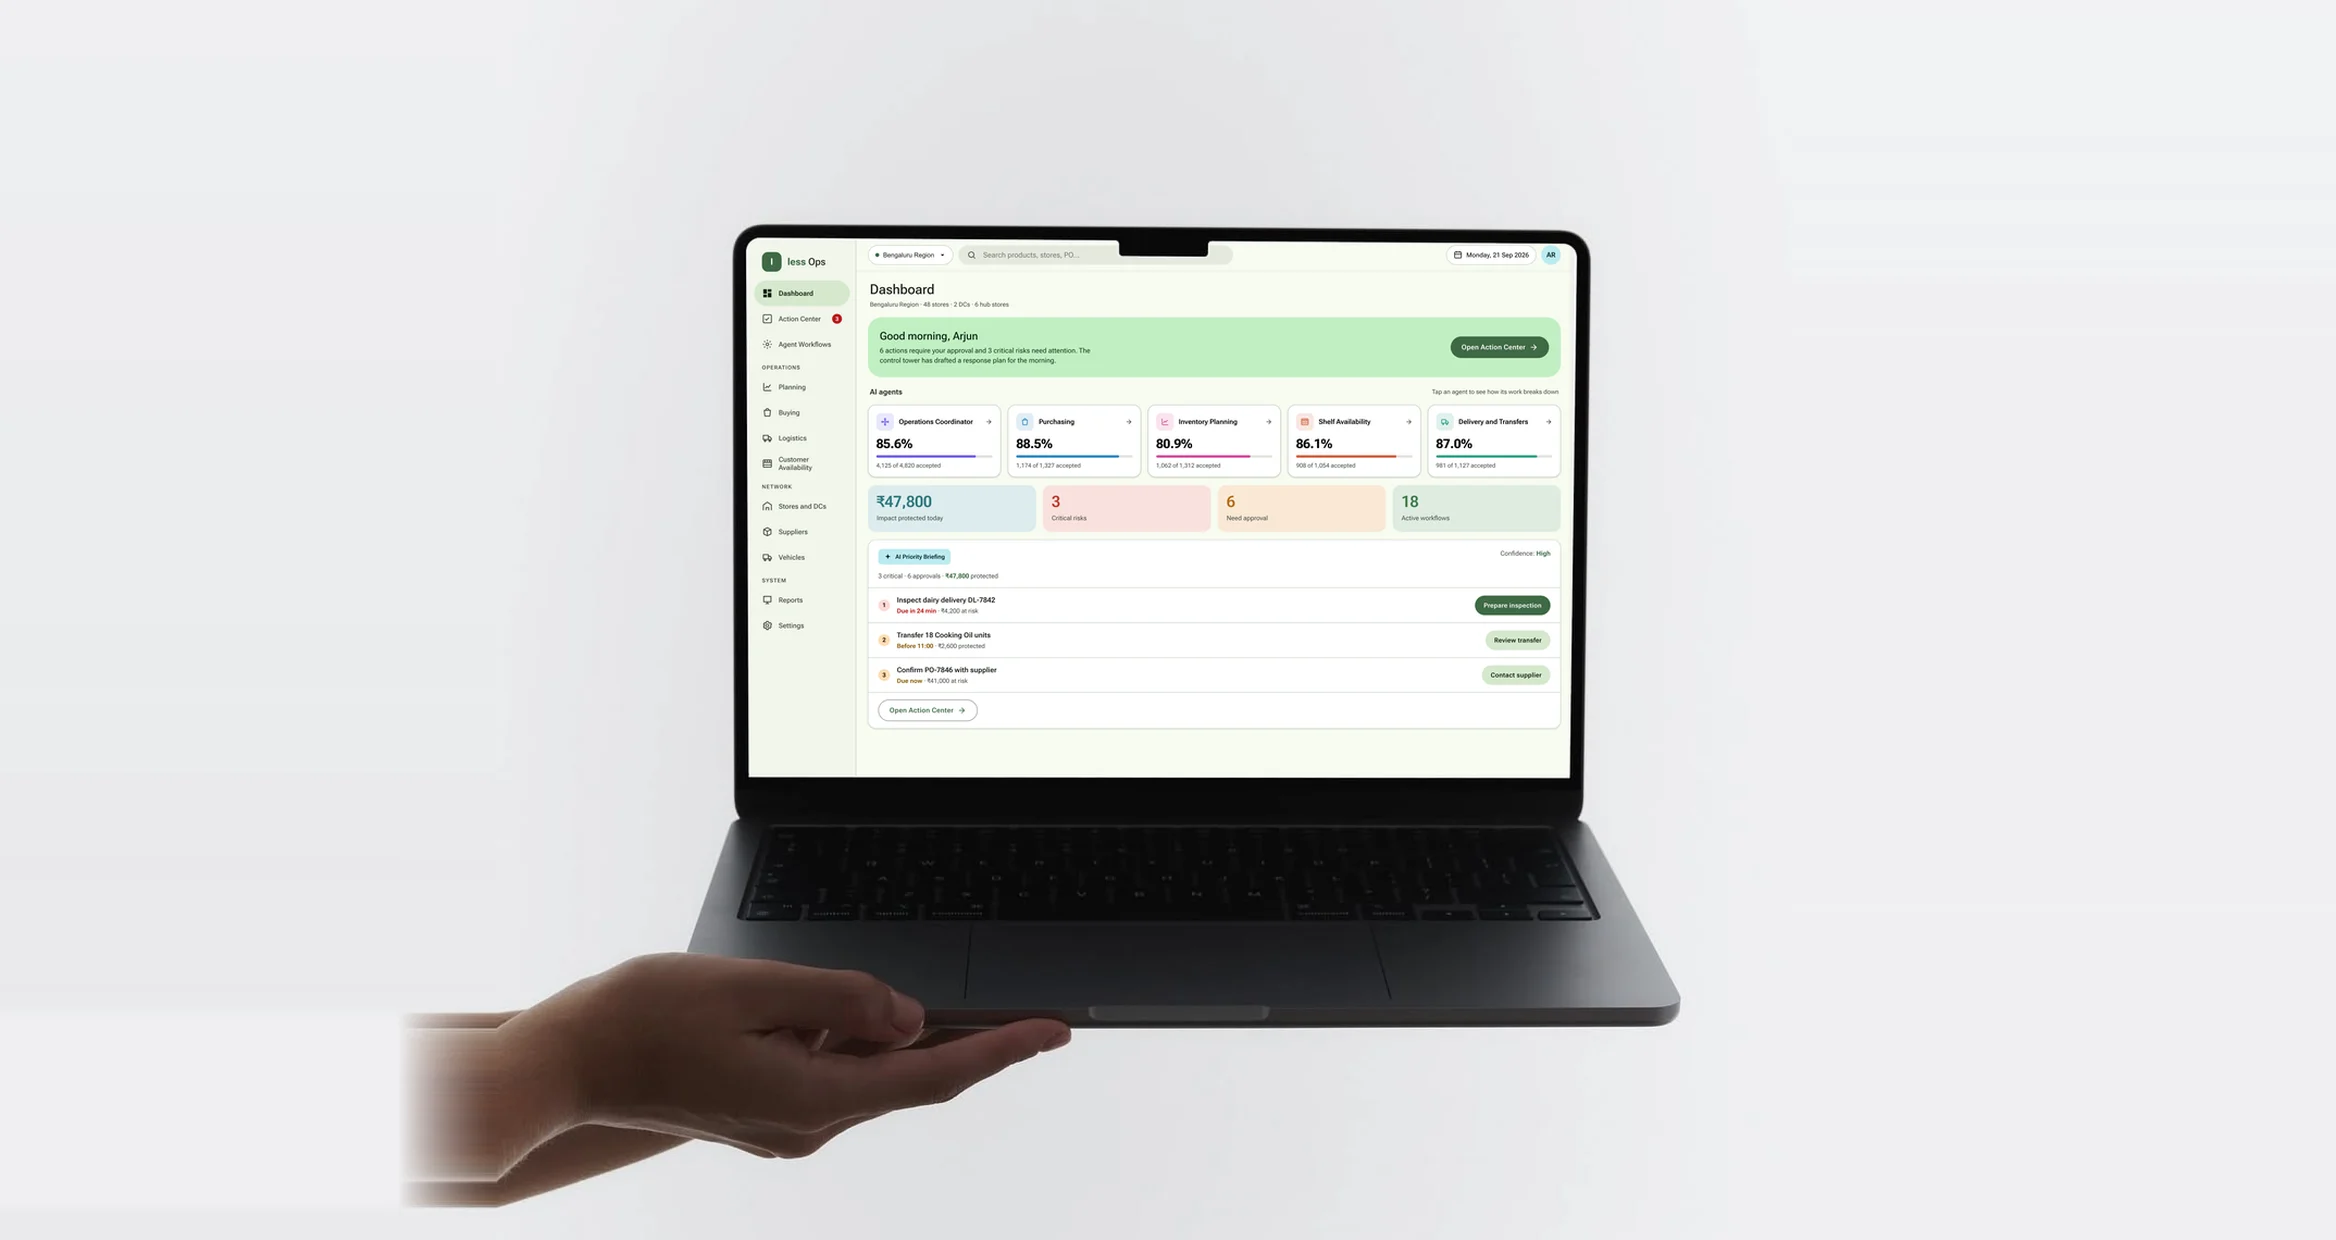
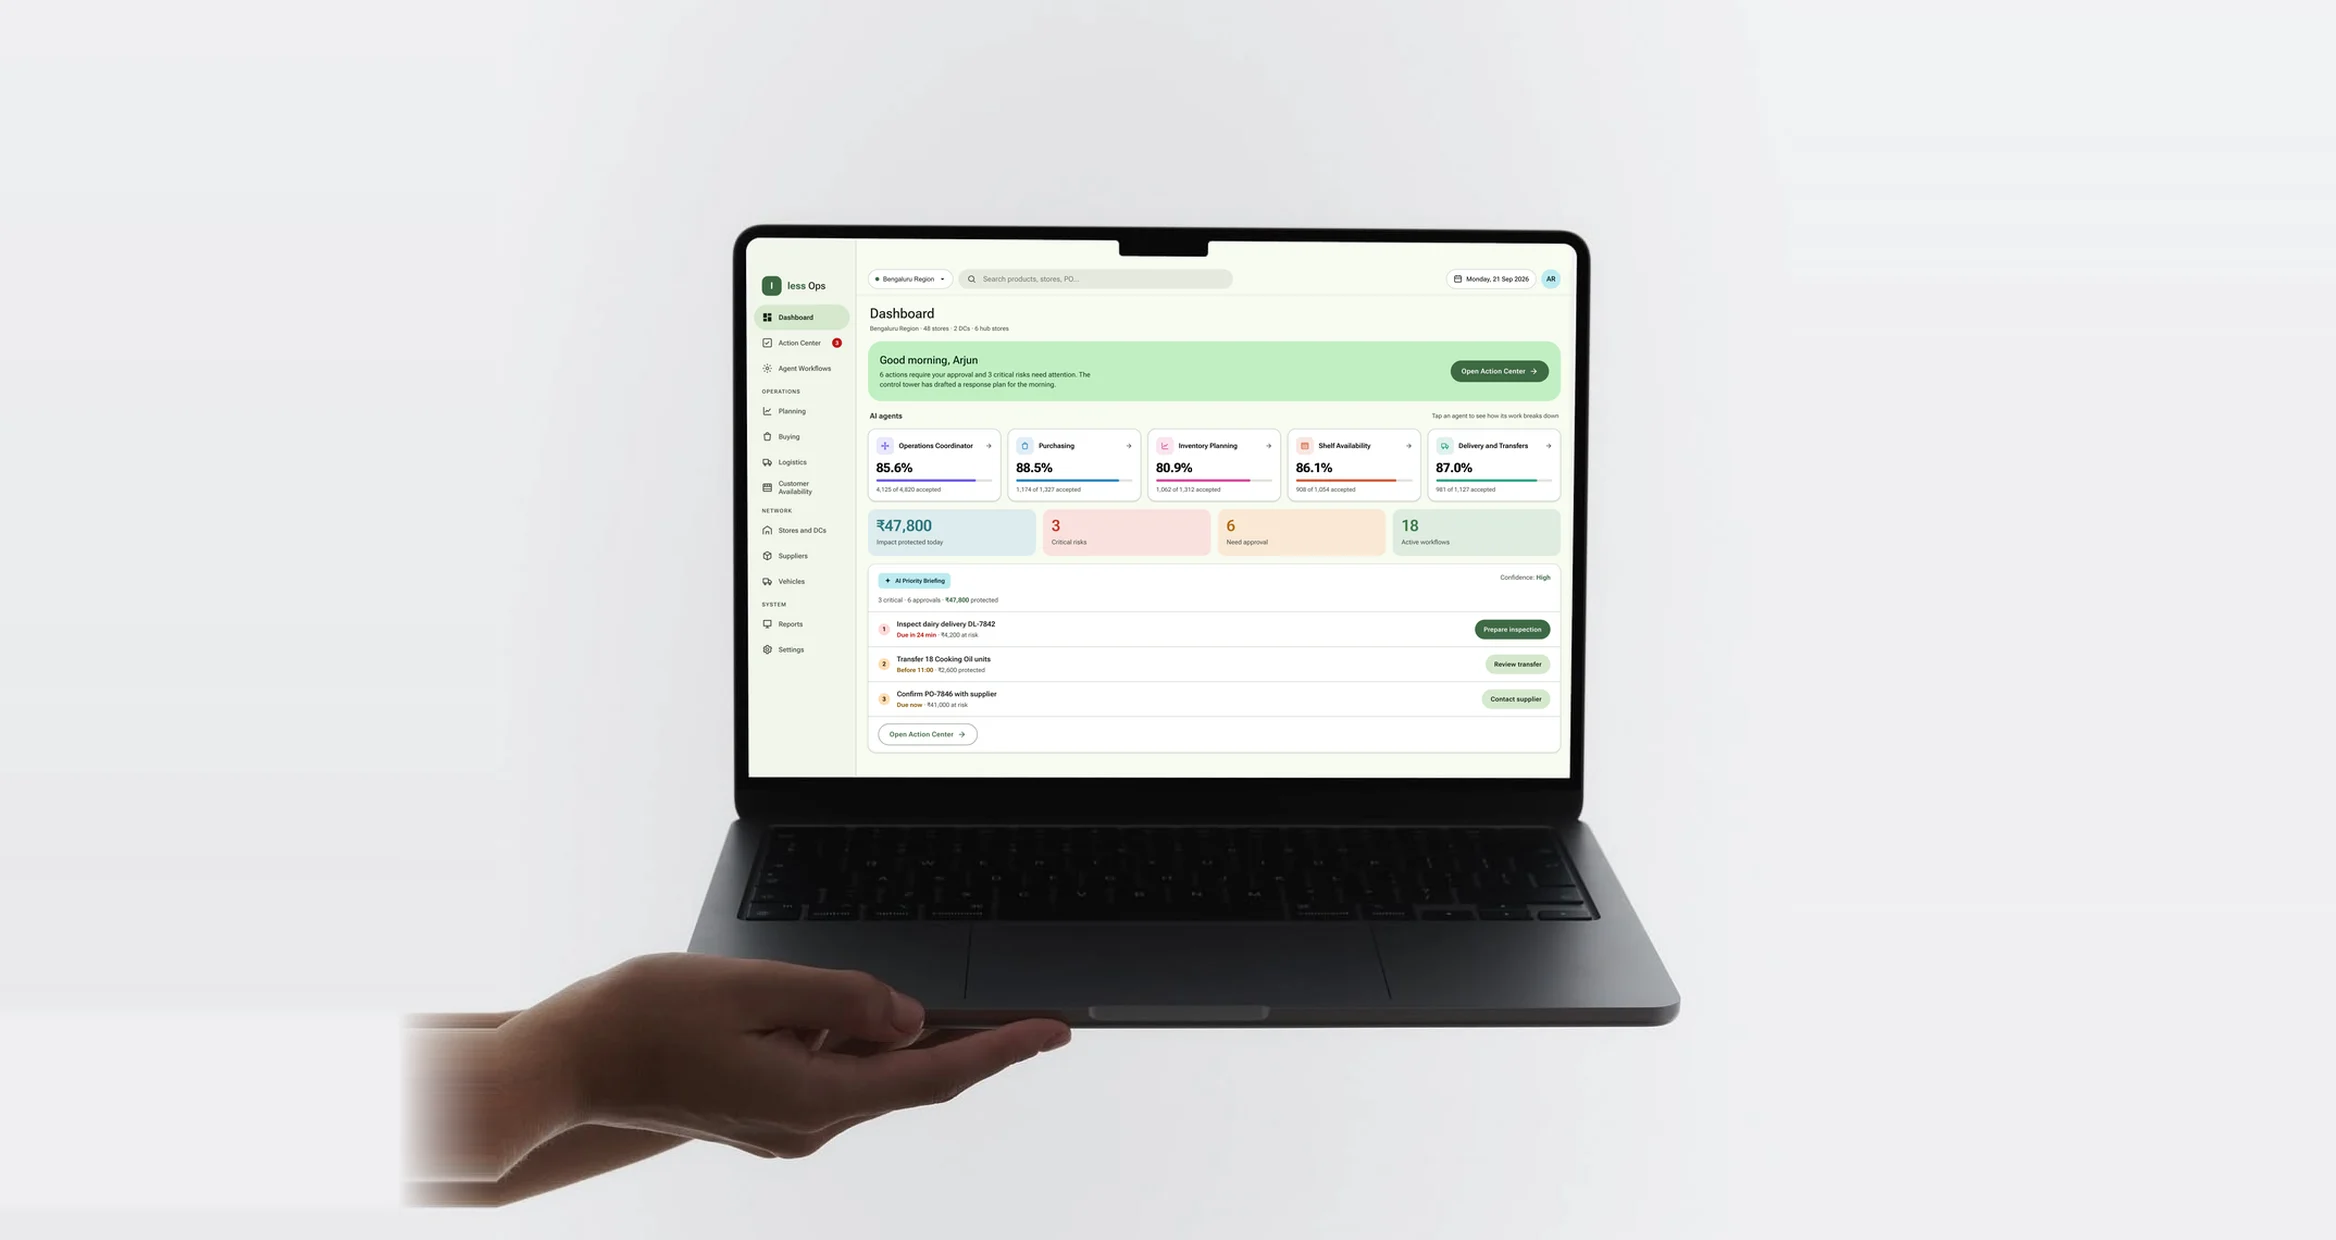
Drop the less Ops screen below the MacBook's notch
The notch reaches 16px into the screen and the search bar sat right
under it. The dashboard now starts lower: its top bar is carried up by
the notch's depth plus a little air, and the same amount comes off the
bottom, which is only the page's own ground. Rebuilt into both the home
card and the case study hero.

Changed region(s): [[0.3125, 0.1839, 0.6875, 0.6129], [0.3125, 0.3677, 0.3438, 0.429], [0.3125, 0.4597, 0.3438, 0.4903]]

diff --git a/less-ops-case-study.html b/less-ops-case-study.html
@@ -33,7 +33,7 @@
           <div><dt>Output</dt><dd>Interactive prototype</dd></div>
         </dl>
       </div>
-      <figure class="hero-image hero-image--device"><img src="media/less-ops/hero-wide.webp?v=2" alt="The less Ops dashboard on a laptop held in one hand, showing the morning greeting, the five agents and the day's totals."></figure>
+      <figure class="hero-image hero-image--device"><img src="media/less-ops/hero-wide.webp?v=3" alt="The less Ops dashboard on a laptop held in one hand, showing the morning greeting, the five agents and the day's totals."></figure>
       <p class="caption">The morning view: what needs a decision, and what the agents have already drafted.</p>
     </section>
 

diff --git a/script.js b/script.js
@@ -273,7 +273,7 @@ const WORK = [
     // Decoded from the case study's own hero mockup and letterboxed onto the
     // artwork's background, so the laptop keeps its full width — the same
     // reason the insure-tech plate is padded rather than cover-cropped.
-    thumb: "media/less-ops-card.webp?v=9",
+    thumb: "media/less-ops-card.webp?v=10",
     // Opens in a tab rather than the portal: this one is a deployed site, not
     // a study embedded in the page, and it carries its own navigation.
     href: "https://less-ops.vercel.app/",

diff --git a/index.html b/index.html
@@ -368,6 +368,6 @@
   </footer>
 
   <script src="hand.js?v=254"></script>
-  <script src="script.js?v=418"></script>
+  <script src="script.js?v=419"></script>
 </body>
 </html>
